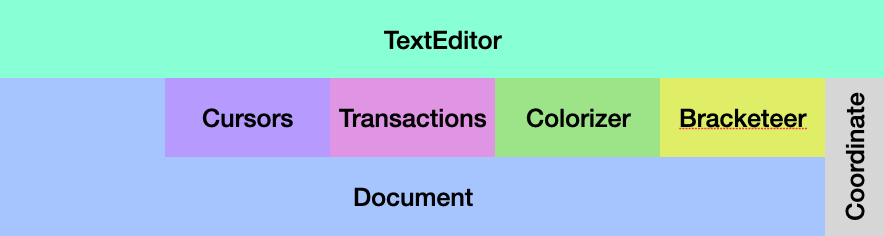
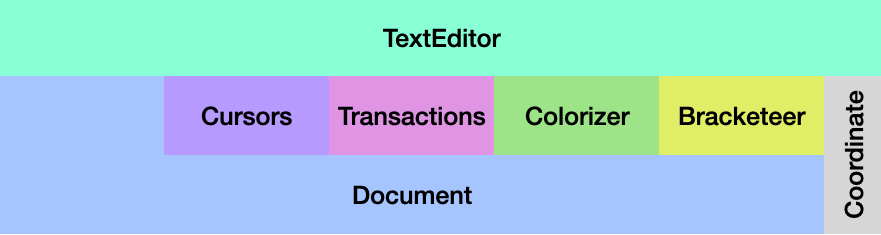
Improved color palettes and fixed typos

diff --git a/docs/glsl.cpp b/docs/glsl.cpp
@@ -1,0 +1,187 @@
+//
+//	Glsl
+//
+
+const TextEditor::Language& Glsl() {
+	static bool initialized = false;
+	static TextEditor::Language language;
+
+	if (!initialized) {
+		language = TextEditor::Language::Glsl();
+
+		// source: https://registry.khronos.org/OpenGL/specs/gl/GLSLangSpec.4.60.html
+		static const char* const identifiers[] = {
+			"abs", "acos", "acosh", "all", "any", "asin", "asinh", "atan", "atanh", "atomicAdd", "atomicAnd", "atomicCompSwap",
+			"atomicCounter", "atomicCounterDecrement", "atomicCounterIncrement", "atomicExchange", "atomicMax", "atomicMin",
+			"atomicOr", "atomicXor", "barrier", "bitCount", "bitfieldExtract", "bitfieldInsert" "bitfieldReverse", "ceil", "clamp",
+			"cos", "cosh", "cross", "degrees", "determinant", "dFdx", "dFdxCoarse", "dFdxFine", "dFdy", "dFdyCoarse", "dFdyFine",
+			"distance", "dot", "EmitStreamVertex", "EmitVertex", "EndPrimitive", "EndStreamPrimitive", "equal", "exp", "exp2",
+			"faceforward", "findLSB", "findMSB", "floatBitsToInt", "floatBitsToUint", "floor", "fma", "fract", "frexp", "fwidth",
+			"fwidthCoarse", "fwidthFine", "glActiveShaderProgram", "glActiveTexture", "glAttachShader", "glBeginConditionalRender",
+			"glBeginQuery", "glBeginQueryIndexed", "glBeginTransformFeedback", "glBindAttribLocation", "glBindBuffer",
+			"glBindBufferBase", "glBindBufferRange", "glBindBuffersBase", "glBindBuffersRange", "glBindFragDataLocation",
+			"glBindFragDataLocationIndexed", "glBindFramebuffer", "glBindImageTexture", "glBindImageTextures",
+			"glBindProgramPipeline", "glBindRenderbuffer", "glBindSampler", "glBindSamplers", "glBindTexture", "glBindTextures",
+			"glBindTextureUnit", "glBindTransformFeedback", "glBindVertexArray", "glBindVertexBuffer", "glBindVertexBuffers",
+			"glBlendColor", "glBlendEquation", "glBlendEquationi", "glBlendEquationSeparate", "glBlendEquationSeparatei",
+			"glBlendFunc", "glBlendFunci", "glBlendFuncSeparate", "glBlendFuncSeparatei", "glBlitFramebuffer",
+			"glBlitNamedFramebuffer", "glBufferData", "glBufferStorage", "glBufferSubData", "glCheckFramebufferStatus",
+			"glCheckNamedFramebufferStatus", "glClampColor", "glClear", "glClearBuffer", "glClearBufferData", "glClearBufferfi",
+			"glClearBufferfv", "glClearBufferiv", "glClearBufferSubData", "glClearBufferuiv", "glClearColor", "glClearDepth",
+			"glClearDepthf", "glClearNamedBufferData", "glClearNamedBufferSubData", "glClearNamedFramebufferfi",
+			"glClearNamedFramebufferfv", "glClearNamedFramebufferiv", "glClearNamedFramebufferuiv", "glClearStencil",
+			"glClearTexImage", "glClearTexSubImage", "glClientWaitSync", "glClipControl", "glColorMask", "glColorMaski",
+			"glCompileShader", "glCompressedTexImage1D", "glCompressedTexImage2D", "glCompressedTexImage3D",
+			"glCompressedTexSubImage1D", "glCompressedTexSubImage2D", "glCompressedTexSubImage3D", "glCompressedTextureSubImage1D",
+			"glCompressedTextureSubImage2D", "glCompressedTextureSubImage3D", "glCopyBufferSubData", "glCopyImageSubData",
+			"glCopyNamedBufferSubData", "glCopyTexImage1D", "glCopyTexImage2D", "glCopyTexSubImage1D", "glCopyTexSubImage2D",
+			"glCopyTexSubImage3D", "glCopyTextureSubImage1D", "glCopyTextureSubImage2D", "glCopyTextureSubImage3D",
+			"glCreateBuffers", "glCreateFramebuffers", "glCreateProgram", "glCreateProgramPipelines", "glCreateQueries",
+			"glCreateRenderbuffers", "glCreateSamplers", "glCreateShader", "glCreateShaderProgram", "glCreateShaderProgramv",
+			"glCreateTextures", "glCreateTransformFeedbacks", "glCreateVertexArrays", "glCullFace", "glDebugMessageCallback",
+			"glDebugMessageControl", "glDebugMessageInsert", "glDeleteBuffers", "glDeleteFramebuffers", "glDeleteProgram",
+			"glDeleteProgramPipelines", "glDeleteQueries", "glDeleteRenderbuffers", "glDeleteSamplers", "glDeleteShader",
+			"glDeleteSync", "glDeleteTextures", "glDeleteTransformFeedbacks", "glDeleteVertexArrays", "glDepthFunc", "glDepthMask",
+			"glDepthRange", "glDepthRangeArray", "glDepthRangeArrayv", "glDepthRangef", "glDepthRangeIndexed", "glDetachShader",
+			"glDisable", "glDisablei", "glDisableVertexArrayAttrib", "glDisableVertexAttribArray", "glDispatchCompute",
+			"glDispatchComputeIndirect", "glDrawArrays", "glDrawArraysIndirect", "glDrawArraysInstanced",
+			"glDrawArraysInstancedBaseInstance", "glDrawBuffer", "glDrawBuffers", "glDrawElements", "glDrawElementsBaseVertex",
+			"glDrawElementsIndirect", "glDrawElementsInstanced", "glDrawElementsInstancedBaseInstance",
+			"glDrawElementsInstancedBaseVertex", "glDrawElementsInstancedBaseVertexBaseInstance", "glDrawRangeElements",
+			"glDrawRangeElementsBaseVertex", "glDrawTransformFeedback", "glDrawTransformFeedbackInstanced",
+			"glDrawTransformFeedbackStream", "glDrawTransformFeedbackStreamInstanced", "glEnable", "glEnablei",
+			"glEnableVertexArrayAttrib", "glEnableVertexAttribArray", "glEndConditionalRender", "glEndQuery", "glEndQueryIndexed",
+			"glEndTransformFeedback", "glFenceSync", "glFinish", "glFlush", "glFlushMappedBufferRange",
+			"glFlushMappedNamedBufferRange", "glFramebufferParameteri", "glFramebufferParameteri", "glFramebufferRenderbuffer",
+			"glFramebufferTexture", "glFramebufferTexture1D", "glFramebufferTexture2D", "glFramebufferTexture3D",
+			"glFramebufferTextureLayer", "glFrontFace", "glGenBuffers", "glGenerateMipmap", "glGenerateTextureMipmap",
+			"glGenFramebuffers", "glGenProgramPipelines", "glGenQueries", "glGenRenderbuffers", "glGenSamplers", "glGenTextures",
+			"glGenTransformFeedbacks", "glGenVertexArrays", "glGet", "glGetActiveAtomicCounterBufferiv", "glGetActiveAttrib",
+			"glGetActiveSubroutineName", "glGetActiveSubroutineUniform", "glGetActiveSubroutineUniformiv",
+			"glGetActiveSubroutineUniformName", "glGetActiveUniform", "glGetActiveUniformBlock", "glGetActiveUniformBlockiv",
+			"glGetActiveUniformBlockName", "glGetActiveUniformName", "glGetActiveUniformsiv", "glGetAttachedShaders",
+			"glGetAttribLocation", "glGetBooleani_v", "glGetBooleanv", "glGetBufferParameter", "glGetBufferParameteri64v",
+			"glGetBufferParameteriv", "glGetBufferPointerv", "glGetBufferSubData", "glGetCompressedTexImage",
+			"glGetCompressedTextureImage", "glGetCompressedTextureSubImage", "glGetDebugMessageLog", "glGetDoublei_v",
+			"glGetDoublev", "glGetError", "glGetFloati_v", "glGetFloatv", "glGetFragDataIndex", "glGetFragDataLocation",
+			"glGetFramebufferAttachmentParameter", "glGetFramebufferAttachmentParameteriv", "glGetFramebufferParameter",
+			"glGetFramebufferParameteriv", "glGetGraphicsResetStatus", "glGetInteger64i_v", "glGetInteger64v", "glGetIntegeri_v",
+			"glGetIntegerv", "glGetInternalformat", "glGetInternalformati64v", "glGetInternalformativ", "glGetMultisample",
+			"glGetMultisamplefv", "glGetNamedBufferParameteri64v", "glGetNamedBufferParameteriv", "glGetNamedBufferPointerv",
+			"glGetNamedBufferSubData", "glGetNamedFramebufferAttachmentParameteriv", "glGetNamedFramebufferParameteriv",
+			"glGetNamedRenderbufferParameteriv", "glGetnCompressedTexImage", "glGetnTexImage", "glGetnUniformdv", "glGetnUniformfv",
+			"glGetnUniformiv", "glGetnUniformuiv", "glGetObjectLabel", "glGetObjectPtrLabel", "glGetPointerv", "glGetProgram",
+			"glGetProgramBinary", "glGetProgramInfoLog", "glGetProgramInterface", "glGetProgramInterfaceiv", "glGetProgramiv",
+			"glGetProgramPipeline", "glGetProgramPipelineInfoLog", "glGetProgramPipelineiv", "glGetProgramResource",
+			"glGetProgramResourceIndex", "glGetProgramResourceiv", "glGetProgramResourceLocation",
+			"glGetProgramResourceLocationIndex", "glGetProgramResourceName", "glGetProgramStage", "glGetProgramStageiv",
+			"glGetQueryBufferObjecti64v", "glGetQueryBufferObjectiv", "glGetQueryBufferObjectui64v", "glGetQueryBufferObjectuiv",
+			"glGetQueryIndexed", "glGetQueryIndexediv", "glGetQueryiv", "glGetQueryObject", "glGetQueryObjecti64v",
+			"glGetQueryObjectiv", "glGetQueryObjectui64v", "glGetQueryObjectuiv", "glGetRenderbufferParameter",
+			"glGetRenderbufferParameteriv", "glGetSamplerParameter", "glGetSamplerParameterfv", "glGetSamplerParameterIiv",
+			"glGetSamplerParameterIuiv", "glGetSamplerParameteriv", "glGetShader", "glGetShaderInfoLog", "glGetShaderiv",
+			"glGetShaderPrecisionFormat", "glGetShaderSource", "glGetString", "glGetStringi", "glGetSubroutineIndex",
+			"glGetSubroutineUniformLocation", "glGetSync", "glGetSynciv", "glGetTexImage", "glGetTexLevelParameter",
+			"glGetTexLevelParameterfv", "glGetTexLevelParameteriv", "glGetTexParameter", "glGetTexParameterfv",
+			"glGetTexParameterIiv", "glGetTexParameterIuiv", "glGetTexParameteriv", "glGetTextureImage",
+			"glGetTextureLevelParameterfv", "glGetTextureLevelParameteriv", "glGetTextureParameterfv", "glGetTextureParameterIiv",
+			"glGetTextureParameterIuiv", "glGetTextureParameteriv", "glGetTextureSubImage", "glGetTransformFeedback",
+			"glGetTransformFeedbacki64_v", "glGetTransformFeedbackiv", "glGetTransformFeedbacki_v", "glGetTransformFeedbackVarying",
+			"glGetUniform", "glGetUniformBlockIndex", "glGetUniformdv", "glGetUniformfv", "glGetUniformIndices", "glGetUniformiv",
+			"glGetUniformLocation", "glGetUniformSubroutine", "glGetUniformSubroutineuiv", "glGetUniformuiv",
+			"glGetVertexArrayIndexed", "glGetVertexArrayIndexed64iv", "glGetVertexArrayIndexediv", "glGetVertexArrayiv",
+			"glGetVertexAttrib", "glGetVertexAttribdv", "glGetVertexAttribfv", "glGetVertexAttribIiv", "glGetVertexAttribIuiv",
+			"glGetVertexAttribiv", "glGetVertexAttribLdv", "glGetVertexAttribPointerv", "glHint", "glInvalidateBufferData",
+			"glInvalidateBufferSubData", "glInvalidateFramebuffer", "glInvalidateNamedFramebufferData",
+			"glInvalidateNamedFramebufferSubData", "glInvalidateSubFramebuffer", "glInvalidateTexImage", "glInvalidateTexSubImage",
+			"glIsBuffer", "glIsEnabled", "glIsEnabledi", "glIsFramebuffer", "glIsProgram", "glIsProgramPipeline", "glIsQuery",
+			"glIsRenderbuffer", "glIsSampler", "glIsShader", "glIsSync", "glIsTexture", "glIsTransformFeedback", "glIsVertexArray",
+			"glLineWidth", "glLinkProgram", "glLogicOp", "glMapBuffer", "glMapBufferRange", "glMapNamedBuffer",
+			"glMapNamedBufferRange", "glMemoryBarrier", "glMemoryBarrierByRegion", "glMinSampleShading", "glMultiDrawArrays",
+			"glMultiDrawArraysIndirect", "glMultiDrawElements", "glMultiDrawElementsBaseVertex", "glMultiDrawElementsIndirect",
+			"glNamedBufferData", "glNamedBufferStorage", "glNamedBufferSubData", "glNamedFramebufferDrawBuffer",
+			"glNamedFramebufferDrawBuffers", "glNamedFramebufferParameteri", "glNamedFramebufferParameteri",
+			"glNamedFramebufferReadBuffer", "glNamedFramebufferRenderbuffer", "glNamedFramebufferTexture",
+			"glNamedFramebufferTextureLayer", "glNamedRenderbufferStorage", "glNamedRenderbufferStorageMultisample",
+			"glObjectLabel", "glObjectPtrLabel", "glPatchParameter", "glPatchParameterfv", "glPatchParameteri",
+			"glPauseTransformFeedback", "glPixelStore", "glPixelStoref", "glPixelStorei", "glPointParameter", "glPointParameterf",
+			"glPointParameterfv", "glPointParameteri", "glPointParameteriv", "glPointSize", "glPolygonMode", "glPolygonOffset",
+			"glPopDebugGroup", "glPrimitiveRestartIndex", "glProgramBinary", "glProgramParameter", "glProgramParameteri",
+			"glProgramUniform", "glProgramUniform1f", "glProgramUniform1fv", "glProgramUniform1i", "glProgramUniform1iv",
+			"glProgramUniform1ui", "glProgramUniform1uiv", "glProgramUniform2f", "glProgramUniform2fv", "glProgramUniform2i",
+			"glProgramUniform2iv", "glProgramUniform2ui", "glProgramUniform2uiv", "glProgramUniform3f", "glProgramUniform3fv",
+			"glProgramUniform3i", "glProgramUniform3iv", "glProgramUniform3ui", "glProgramUniform3uiv", "glProgramUniform4f",
+			"glProgramUniform4fv", "glProgramUniform4i", "glProgramUniform4iv", "glProgramUniform4ui", "glProgramUniform4uiv",
+			"glProgramUniformMatrix2fv", "glProgramUniformMatrix2x3fv", "glProgramUniformMatrix2x4fv", "glProgramUniformMatrix3fv",
+			"glProgramUniformMatrix3x2fv", "glProgramUniformMatrix3x4fv", "glProgramUniformMatrix4fv",
+			"glProgramUniformMatrix4x2fv", "glProgramUniformMatrix4x3fv", "glProvokingVertex", "glPushDebugGroup", "glQueryCounter",
+			"glReadBuffer", "glReadnPixels", "glReadPixels", "glReleaseShaderCompiler", "glRenderbufferStorage",
+			"glRenderbufferStorageMultisample", "glResumeTransformFeedback", "glSampleCoverage", "glSampleMaski",
+			"glSamplerParameter", "glSamplerParameterf", "glSamplerParameterfv", "glSamplerParameteri", "glSamplerParameterIiv",
+			"glSamplerParameterIuiv", "glSamplerParameteriv", "glScissor", "glScissorArray", "glScissorArrayv", "glScissorIndexed",
+			"glScissorIndexedv", "glShaderBinary", "glShaderSource", "glShaderStorageBlockBinding", "glStencilFunc",
+			"glStencilFuncSeparate", "glStencilMask", "glStencilMaskSeparate", "glStencilOp", "glStencilOpSeparate", "glTexBuffer",
+			"glTexBufferRange", "glTexImage1D", "glTexImage2D", "glTexImage2DMultisample", "glTexImage3D",
+			"glTexImage3DMultisample", "glTexParameter", "glTexParameterf", "glTexParameterfv", "glTexParameteri",
+			"glTexParameterIiv", "glTexParameterIuiv", "glTexParameteriv", "glTexStorage1D", "glTexStorage2D",
+			"glTexStorage2DMultisample", "glTexStorage3D", "glTexStorage3DMultisample", "glTexSubImage1D", "glTexSubImage2D",
+			"glTexSubImage3D", "glTextureBarrier", "glTextureBuffer", "glTextureBufferRange", "glTextureParameterf",
+			"glTextureParameterfv", "glTextureParameteri", "glTextureParameterIiv", "glTextureParameterIuiv",
+			"glTextureParameteriv", "glTextureStorage1D", "glTextureStorage2D", "glTextureStorage2DMultisample",
+			"glTextureStorage3D", "glTextureStorage3DMultisample", "glTextureSubImage1D", "glTextureSubImage2D",
+			"glTextureSubImage3D", "glTextureView", "glTransformFeedbackBufferBase", "glTransformFeedbackBufferRange",
+			"glTransformFeedbackVaryings", "glUniform", "glUniform1f", "glUniform1fv", "glUniform1i", "glUniform1iv",
+			"glUniform1ui", "glUniform1uiv", "glUniform2f", "glUniform2fv", "glUniform2i", "glUniform2iv", "glUniform2ui",
+			"glUniform2uiv", "glUniform3f", "glUniform3fv", "glUniform3i", "glUniform3iv", "glUniform3ui", "glUniform3uiv",
+			"glUniform4f", "glUniform4fv", "glUniform4i", "glUniform4iv", "glUniform4ui", "glUniform4uiv", "glUniformBlockBinding",
+			"glUniformMatrix2fv", "glUniformMatrix2x3fv", "glUniformMatrix2x4fv", "glUniformMatrix3fv", "glUniformMatrix3x2fv",
+			"glUniformMatrix3x4fv", "glUniformMatrix4fv", "glUniformMatrix4x2fv", "glUniformMatrix4x3fv", "glUniformSubroutines",
+			"glUniformSubroutinesuiv", "glUnmapBuffer", "glUnmapNamedBuffer", "glUseProgram", "glUseProgramStages",
+			"glValidateProgram", "glValidateProgramPipeline", "glVertexArrayAttribBinding", "glVertexArrayAttribFormat",
+			"glVertexArrayAttribIFormat", "glVertexArrayAttribLFormat", "glVertexArrayBindingDivisor", "glVertexArrayElementBuffer",
+			"glVertexArrayVertexBuffer", "glVertexArrayVertexBuffers", "glVertexAttrib", "glVertexAttrib1d", "glVertexAttrib1dv",
+			"glVertexAttrib1f", "glVertexAttrib1fv", "glVertexAttrib1s", "glVertexAttrib1sv", "glVertexAttrib2d",
+			"glVertexAttrib2dv", "glVertexAttrib2f", "glVertexAttrib2fv", "glVertexAttrib2s", "glVertexAttrib2sv",
+			"glVertexAttrib3d", "glVertexAttrib3dv", "glVertexAttrib3f", "glVertexAttrib3fv", "glVertexAttrib3s",
+			"glVertexAttrib3sv", "glVertexAttrib4bv", "glVertexAttrib4d", "glVertexAttrib4dv", "glVertexAttrib4f",
+			"glVertexAttrib4fv", "glVertexAttrib4iv", "glVertexAttrib4Nbv", "glVertexAttrib4Niv", "glVertexAttrib4Nsv",
+			"glVertexAttrib4Nub", "glVertexAttrib4Nubv", "glVertexAttrib4Nuiv", "glVertexAttrib4Nusv", "glVertexAttrib4s",
+			"glVertexAttrib4sv", "glVertexAttrib4ubv", "glVertexAttrib4uiv", "glVertexAttrib4usv", "glVertexAttribBinding",
+			"glVertexAttribDivisor", "glVertexAttribFormat", "glVertexAttribI1i", "glVertexAttribI1iv", "glVertexAttribI1ui",
+			"glVertexAttribI1uiv", "glVertexAttribI2i", "glVertexAttribI2iv", "glVertexAttribI2ui", "glVertexAttribI2uiv",
+			"glVertexAttribI3i", "glVertexAttribI3iv", "glVertexAttribI3ui", "glVertexAttribI3uiv", "glVertexAttribI4bv",
+			"glVertexAttribI4i", "glVertexAttribI4iv", "glVertexAttribI4sv", "glVertexAttribI4ubv", "glVertexAttribI4ui",
+			"glVertexAttribI4uiv", "glVertexAttribI4usv", "glVertexAttribIFormat", "glVertexAttribIPointer", "glVertexAttribL1d",
+			"glVertexAttribL1dv", "glVertexAttribL2d", "glVertexAttribL2dv", "glVertexAttribL3d", "glVertexAttribL3dv",
+			"glVertexAttribL4d", "glVertexAttribL4dv", "glVertexAttribLFormat", "glVertexAttribLPointer", "glVertexAttribP1ui",
+			"glVertexAttribP2ui", "glVertexAttribP3ui", "glVertexAttribP4ui", "glVertexAttribPointer", "glVertexBindingDivisor",
+			"glViewport", "glViewportArray", "glViewportArrayv", "glViewportIndexed", "glViewportIndexedf", "glViewportIndexedfv",
+			"glWaitSync", "gl_ClipDistance", "gl_CullDistance", "gl_FragCoord", "gl_FragDepth", "gl_FrontFacing",
+			"gl_GlobalInvocationID", "gl_HelperInvocation", "gl_InstanceID", "gl_InvocationID", "gl_Layer", "gl_LocalInvocationID",
+			"gl_LocalInvocationIndex", "gl_NumSamples", "gl_NumWorkGroups", "gl_PatchVerticesIn", "gl_PointCoord", "gl_PointSize",
+			"gl_Position", "gl_PrimitiveID", "gl_PrimitiveIDIn", "gl_SampleID", "gl_SampleMask", "gl_SampleMaskIn",
+			"gl_SamplePosition", "gl_TessCoord", "gl_TessLevelInner", "gl_TessLevelOuter", "gl_VertexID", "gl_ViewportIndex",
+			"gl_WorkGroupID", "gl_WorkGroupSize", "greaterThan", "greaterThanEqual", "groupMemoryBarrier", "imageAtomicAdd",
+			"imageAtomicAnd", "imageAtomicCompSwap", "imageAtomicExchange", "imageAtomicMax", "imageAtomicMin", "imageAtomicOr",
+			"imageAtomicXor", "imageLoad", "imageSamples", "imageSize", "imageStore", "imulExtended", "intBitsToFloat",
+			"interpolateAtCentroid", "interpolateAtOffset", "interpolateAtSample", "inverse", "inversesqrt", "isinf", "isnan",
+			"ldexp", "length", "lessThan", "lessThanEqual", "log", "log2", "matrixCompMult", "max", "memoryBarrier",
+			"memoryBarrierAtomicCounter", "memoryBarrierBuffer", "memoryBarrierImage", "memoryBarrierShared", "min", "mix", "mod",
+			"modf", "noise", "noise1", "noise2", "noise3", "noise4", "normalize", "not", "notEqual", "outerProduct",
+			"packDouble2x32", "packHalf2x16", "packSnorm2x16", "packSnorm4x8", "packUnorm", "packUnorm2x16", "packUnorm4x8", "pow",
+			"radians", "reflect", "refract", "removedTypes", "round", "roundEven", "sign", "sin", "sinh", "smoothstep", "sqrt",
+			"step", "tan", "tanh", "texelFetch", "texelFetchOffset", "texture", "textureGather", "textureGatherOffset",
+			"textureGatherOffsets", "textureGrad", "textureGradOffset", "textureLod", "textureLodOffset", "textureOffset",
+			"textureProj", "textureProjGrad", "textureProjGradOffset", "textureProjLod", "textureProjLodOffset",
+			"textureProjOffset", "textureQueryLevels", "textureQueryLod", "textureSamples", "textureSize", "transpose", "trunc",
+			"uaddCarry", "uintBitsToFloat", "umulExtended", "unpackDouble2x32", "unpackHalf2x16", "unpackSnorm2x16",
+			"unpackSnorm4x8", "unpackUnorm", "unpackUnorm2x16", "unpackUnorm4x8", "usubBorrow"
+		};
+
+		language.identifiers.clear();
+		for (auto& identifier : identifiers) { language.identifiers.insert(identifier); }
+		initialized = true;
+	}
+
+	return language;
+}

diff --git a/TextEditor.h b/TextEditor.h
@@ -67,6 +67,16 @@ public:
 	// render the text editor in a Dear ImGui context
 	inline void Render(const char* title, const ImVec2& size=ImVec2(), bool border=false) { render(title, size, border); }
 
+	// clipboard actions
+	inline void Cut() { if (!readOnly) cut(); }
+	inline void Copy() const { copy(); }
+	inline void Paste() { if (!readOnly) paste(); }
+	inline void Undo() { if (!readOnly) undo(); }
+	inline void Redo() { if (!readOnly) redo(); }
+	inline bool CanUndo() const { return !readOnly && transactions.canUndo(); };
+	inline bool CanRedo() const { return !readOnly && transactions.canRedo(); };
+	inline size_t GetUndoIndex() const { return transactions.getUndoIndex(); };
+
 	// manipulate cursors and selections (line numbers are zero-based)
 	inline void SetCursor(int line, int column) { moveTo(document.normalizeCoordinate(Coordinate(line, column)), false); }
 	inline void SelectAll() { selectAll(); }
@@ -78,16 +88,6 @@ public:
 	inline bool AllCursorsHaveSelection() const { return cursors.allHaveSelection(); }
 	inline bool CurrentCursorHasSelection() const { return cursors.currentCursorHasSelection(); }
 	inline void ClearCursors() { cursors.clearAll(); }
-
-	// clipboard actions
-	inline void Cut() { if (!readOnly) cut(); }
-	inline void Copy() const { copy(); }
-	inline void Paste() { if (!readOnly) paste(); }
-	inline void Undo() { if (!readOnly) undo(); }
-	inline void Redo() { if (!readOnly) redo(); }
-	inline bool CanUndo() { return !readOnly && transactions.canUndo(); };
-	inline bool CanRedo() { return !readOnly && transactions.canRedo(); };
-	inline size_t GetUndoIndex() { return transactions.getUndoIndex(); };
 
 	// find/replace support
 	inline void SelectFirstOccurrenceOf(const std::string& text, bool caseSensitive=true, bool wholeWord=false) { selectFirstOccurrenceOf(text, caseSensitive, wholeWord); }
@@ -101,7 +101,7 @@ public:
 	void ClearErrorMarkers();
 	inline bool HasErrorMarkers() const { return errorMarkers.size() != 0; }
 
-	// useful editor functions to work on selections
+	// useful functions to work on selections
 	inline void IndentLines() { if (!readOnly) indentLines(); }
 	inline void DeindentLines() { if (!readOnly) deindentLines(); }
 	inline void MoveUpLines() { if (!readOnly) moveUpLines(); }
@@ -111,7 +111,7 @@ public:
 	inline void SelectionToLowerCase() { if (!readOnly) selectionToLowerCase(); }
 	inline void SelectionToUpperCase() { if (!readOnly) selectionToUpperCase(); }
 
-	// useful editor functions to work on entire text
+	// useful functions to work on entire text
 	inline void StripTrailingWhitespaces() { if (!readOnly) stripTrailingWhitespaces(); }
 	inline void FilterLines(std::function<std::string(std::string)> filter) { if (!readOnly) filterLines(filter); }
 	inline void TabsToSpaces() { if (!readOnly) tabsToSpaces(); }
@@ -137,6 +137,7 @@ public:
 		selection,
 		errorMarker,
 		whitespace,
+		matchingBracketBackground,
 		matchingBracketActive,
 		matchingBracketLevel1,
 		matchingBracketLevel2,
@@ -284,7 +285,7 @@ private:
 		inline Coordinate operator -(const Coordinate& o) const { return Coordinate(line - o.line, column - o.column); }
 		inline Coordinate operator +(const Coordinate& o) const { return Coordinate(line + o.line, column + o.column); }
 
-		static Coordinate invalid() { static Coordinate invalid(-1, -1); return invalid; }
+		static inline Coordinate invalid() { static Coordinate invalid(-1, -1); return invalid; }
 		inline bool isValid() const { return line >= 0 && column >= 0; }
 
 		int line = 0;
@@ -366,7 +367,7 @@ private:
 		bool allHaveSelection() const;
 		inline bool mainCursorHasSelection() const { return at(main).hasSelection(); }
 		inline bool currentCursorHasSelection() const { return at(current).hasSelection(); }
-		inline bool mainHasUpdate() const  { return at(main).isUpdated(); }
+		inline bool mainHasUpdate() const { return at(main).isUpdated(); }
 		bool anyHasUpdate() const;
 
 		// clear the selections and create the default cursor

diff --git a/TextEditor.cpp b/TextEditor.cpp
@@ -11,7 +11,10 @@
 
 #include <cmath>
 
+#ifndef IMGUI_DEFINE_MATH_OPERATORS
 #define IMGUI_DEFINE_MATH_OPERATORS
+#endif
+
 #include "imgui.h"
 
 #include "TextEditor.h"
@@ -249,11 +252,11 @@ void TextEditor::renderMatchingBrackets() {
 
 				auto x1 = cursorScreenPos.x + textStart + active->start.column * glyphSize.x;
 				auto y1 = cursorScreenPos.y + active->start.line * glyphSize.y;
-				drawList->AddRectFilled(ImVec2(x1, y1), ImVec2(x1 + glyphSize.x, y1 + glyphSize.y), palette.get(Color::whitespace));
+				drawList->AddRectFilled(ImVec2(x1, y1), ImVec2(x1 + glyphSize.x, y1 + glyphSize.y), palette.get(Color::matchingBracketBackground));
 
 				auto x2 = cursorScreenPos.x + textStart + active->end.column * glyphSize.x;
 				auto y2 = cursorScreenPos.y + active->end.line * glyphSize.y;
-				drawList->AddRectFilled(ImVec2(x2, y2), ImVec2(x2 + glyphSize.x, y2 + glyphSize.y), palette.get(Color::whitespace));
+				drawList->AddRectFilled(ImVec2(x2, y2), ImVec2(x2 + glyphSize.x, y2 + glyphSize.y), palette.get(Color::matchingBracketBackground));
 
 				if (active->end.line - active->start.line > 1) {
 					auto lineX = std::min(x1, x2);
@@ -1184,7 +1187,7 @@ void TextEditor::deindentLines() {
 		auto tabSize = document.getTabSize();
 
 		for (auto line = cursorStart.line; line <= cursorEnd.line; line++) {
-			// determine how many whitespace are available at the start with a max of 4 columns
+			// determine how many whitespaces are available at the start with a max of 4 columns
 			int column = 0;
 			int index = 0;
 
@@ -1764,7 +1767,8 @@ const TextEditor::Palette& TextEditor::GetDarkPalette() {
 		IM_COL32(224, 224, 224, 255),	// cursor
 		IM_COL32( 32,  96, 160, 255),	// selection
 		IM_COL32(128,   0,  32, 255),	// errorMarker
-		IM_COL32( 90,  90,  90, 255),	// whitespace
+		IM_COL32( 80,  80,  80, 255),	// whitespace
+		IM_COL32( 70,  70,  70, 255),	// matchingBracketBackground
 		IM_COL32(140, 140, 140, 255),	// matchingBracketActive
 		IM_COL32(246, 222,  36, 255),	// matchingBracketLevel1
 		IM_COL32( 66, 120, 198, 255),	// matchingBracketLevel2
@@ -1781,24 +1785,25 @@ const TextEditor::Palette& TextEditor::GetLightPalette()
 {
 	const static Palette p = {{
 		IM_COL32( 64,  64,  64, 255),	// text
-		IM_COL32(  6,  12, 255, 255),	// keyword
-		IM_COL32(  6,  12, 255, 255),	// declaration
-		IM_COL32(  0, 128,   0, 255),	// number
+		IM_COL32( 170,  0, 220, 255),	// keyword
+		IM_COL32( 65,   0, 255, 255),	// declaration
+		IM_COL32( 40, 140,  90, 255),	// number
 		IM_COL32(160,  32,  32, 255),	// string
 		IM_COL32(  0,   0,   0, 255),	// punctuation
 		IM_COL32( 96,  96,  64, 255),	// preprocessor
 		IM_COL32( 64,  64,  64, 255),	// identifier
 		IM_COL32( 16,  96,  96, 255),	// known identifier
-		IM_COL32( 32,  80,  32, 255),	// comment
+		IM_COL32( 35, 135,   5, 255),	// comment
 		IM_COL32(255, 255, 255, 255),	// background
 		IM_COL32(  0,   0,   0, 255),	// cursor
 		IM_COL32(  0,   0,  96,  64),	// selection
 		IM_COL32(255,  16,   0, 160),	// errorMarker
 		IM_COL32(144, 144, 144, 144),	// whitespace
+		IM_COL32(180, 180, 180, 144),	// matchingBracketBackground
 		IM_COL32( 72,  72,  72, 255),	// matchingBracketActive
-		IM_COL32(246, 222,  36, 255),	// matchingBracketLevel1
-		IM_COL32( 66, 120, 198, 255),	// matchingBracketLevel2
-		IM_COL32(213,  96, 213, 255),	// matchingBracketLevel3
+		IM_COL32( 70,   0, 250, 255),	// matchingBracketLevel1
+		IM_COL32( 80, 160,  70, 255),	// matchingBracketLevel2
+		IM_COL32(120,  60, 25, 255),	// matchingBracketLevel3
 		IM_COL32(198,   8,  32, 255),	// matchingBracketError
 		IM_COL32(  0,  80,  80, 255),	// line number
 		IM_COL32(  0,   0,   0, 255),	// current line number
@@ -2131,7 +2136,7 @@ TextEditor::Coordinate TextEditor::Document::insertText(Coordinate start, const 
 		}
 	}
 
-	// determine end-of insert
+	// determine end of insert
 	auto end = Coordinate(lineNo, getColumn(static_cast<int>(line - begin()), index));
 
 	// mark affected lines for colorization
